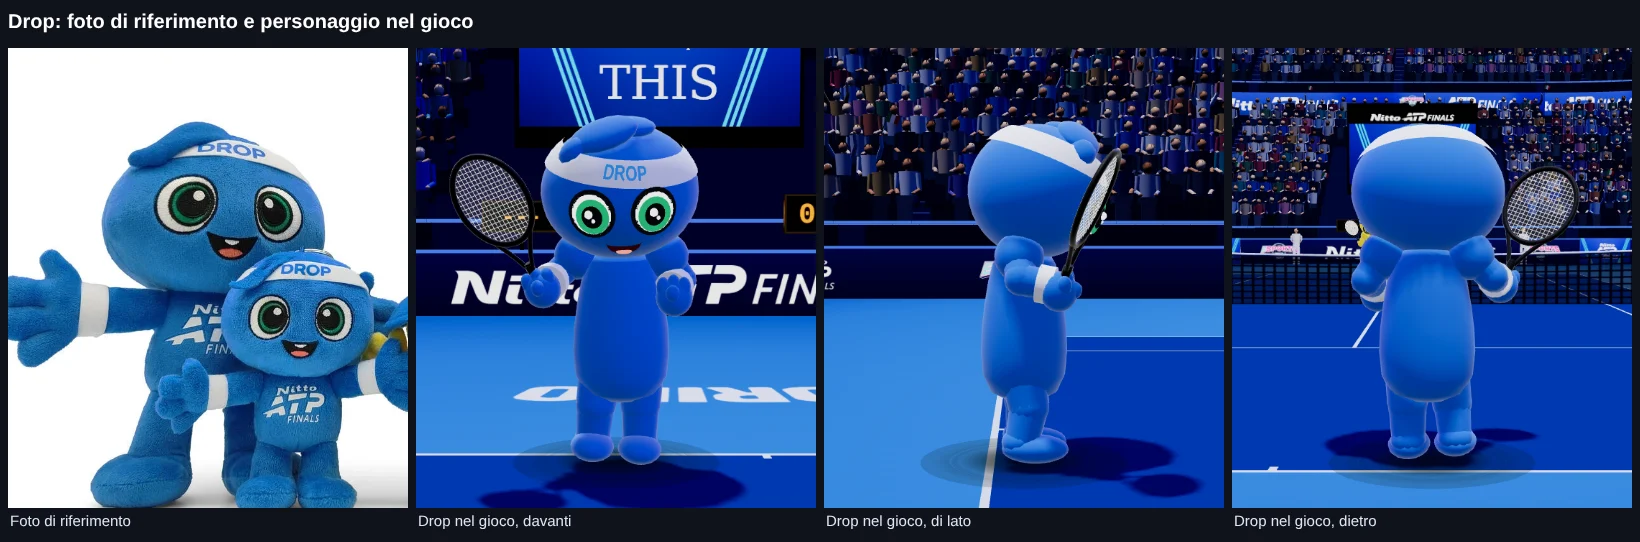
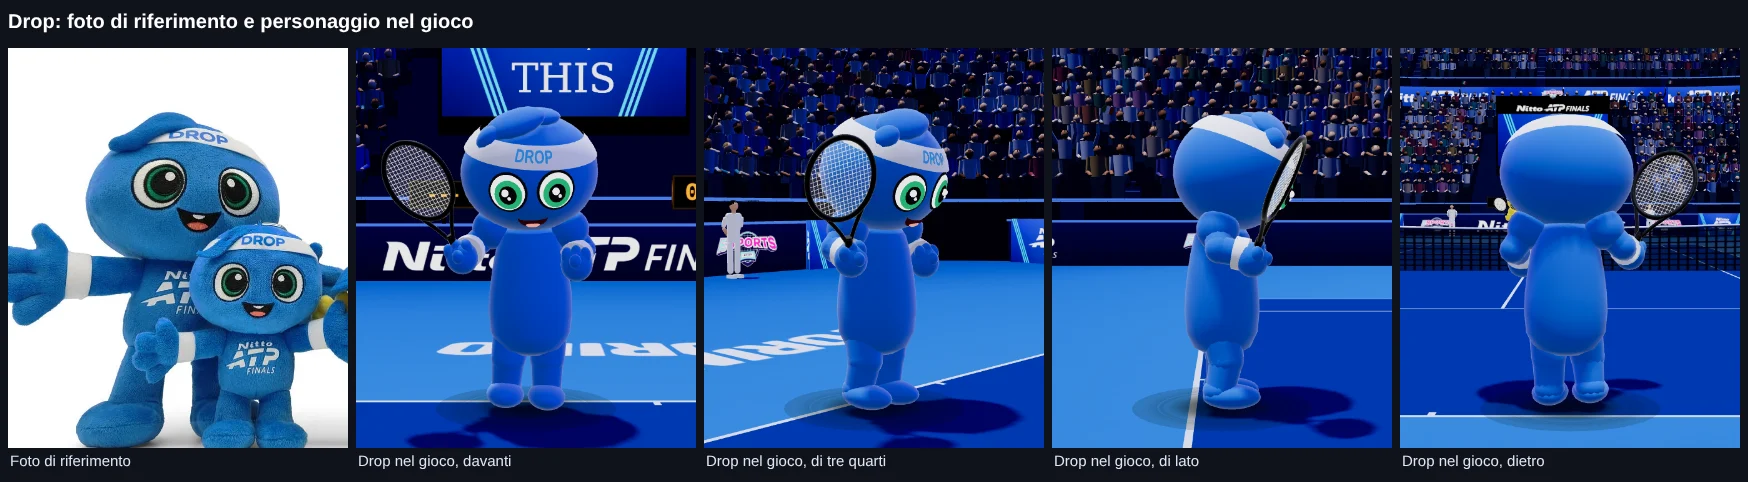
B24 revisione: documento (sezione «Revisione», racchetta e testa grande, funzione da riusare), fogli rifatti, la prova nel browser esce da sola
- docs/b24/lob-e-drop.md: cosa è stato corretto e cosa no e perché, misure prima e dopo con il metodo della
  revisione, limite che resta, come riusare keepRacketClear per i modelli 3D, frase sui ritratti corretta, nota
  sui numeri casuali nelle prove a seme fisso, numeri dell'ultimo giro.
- docs/b24/img: tutti i fogli rifatti (scritte «Classici», occhi nuovi, vista di tre quarti) e foglio nuovo
  racchetta-e-testa.webp con gli stessi passi prima e dopo.
- tools/e2e/natpf-lob-drop.mjs: alla fine esce (restava appesa al server del gioco).

Claude-Session: https://claude.ai/code/session_014xUKe3fJojkqNghZjqDcyr

diff --git a/docs/b24/lob-e-drop.md b/docs/b24/lob-e-drop.md
@@ -14,6 +14,8 @@ giallo, con la visiera blu e gli occhiali.
 - È **solo disegno**: il gioco, i colpi, il riconoscimento dei gesti e la rete tra due computer non cambiano.
 - Con «Classici» l'immagine è **identica** a prima, pixel per pixel (controllato su 9 scene).
 - Le mascotte sono costruite nel codice, come i personaggi classici: nessun file nuovo da scaricare.
+- Dopo la revisione del 12/11: la racchetta **non resta più dentro la testa grande** delle mascotte, gli occhi seguono
+  la curva della testa, nel tabellone la linguetta ha il colore del personaggio. Vedi «Revisione» in fondo.
 
 ## Come si attiva
 
@@ -40,7 +42,13 @@ possono essere diversi (uno con le mascotte, l'altro con i personaggi classici) 
 ogni schermo che ha «Lob & Drop» acceso, Drop è sempre il Player 1 (chi ha aperto la partita) e Lob il Player 2: chi
 entra come Player 2 vede sé stesso come Lob.
 
-Dove oggi si vede il personaggio, segue la scelta: in campo, nei ritratti del tabellone, del menu e di fine partita.
+Dove oggi si vede il personaggio, segue la scelta: **in campo** (anche dietro il menu) e nel **tabellone**, dove con
+«Lob & Drop» la linguetta colorata della riga è blu per chi è Drop e gialla per chi è Lob (con «Classici» resta gialla
+per chi guarda e rosa per l'altro, come prima).
+I **ritratti** (i disegni piccoli del viso) seguono la scelta nel codice, ma **oggi nessuna schermata li mostra**: a
+1280 × 720 sono nascosti nel menu, nei passi della lobby, in partita e a fine partita, e a schermo si leggono solo i
+nomi. Era così anche prima di questo lavoro (lo stile della pagina non è stato toccato): se un giorno torneranno a
+schermo, mostreranno già Drop e Lob.
 I **nomi** («Player 1», «CPU», «Player 2» o il nome scritto da chi gioca) restano quelli di prima: sono i ruoli, non i
 nomi dei personaggi. Le schede dei gesti del tutorial mostrano un disegno a parte di una persona con il telefono, non
 il personaggio in campo: non cambiano.
@@ -60,8 +68,10 @@ gli arti sono gli stessi oggetti, cambiano solo i pezzi disegnati sopra.
   occhi azzurri.
 - **Animazioni**: corsa, dritto, rovescio, servizio, esultanza e le espressioni del viso sono quelle dei personaggi di
   sempre, perché sono calcolate sulle parti e non sui pezzi disegnati.
-- **Racchetta e impatto**: la racchetta è la stessa, nella stessa mano, alla stessa distanza. L'impatto sulla palla è
-  quello di prima (il gioco non guarda il disegno).
+- **Racchetta e impatto**: la racchetta è la stessa, nella stessa mano. L'impatto sulla palla è quello di prima (il
+  gioco non guarda il disegno). Le pose della racchetta sono pensate per la testa piccola del tennista: con la testa
+  grande delle mascotte la racchetta si scosta dalla testa solo quanto serve, e la mano la segue (vedi «Racchetta e
+  testa grande»).
 - **Mancini**: come per i personaggi classici il mancino è lo specchio del destro, quindi la racchetta passa nella
   mano sinistra. La scritta sulla fascia si gira da sola per restare leggibile.
 - **Arti**: le mascotte hanno braccia e gambe, quindi non è servito togliere niente. Sono corte nella foto e più lunghe
@@ -81,14 +91,86 @@ gli arti sono gli stessi oggetti, cambiano solo i pezzi disegnati sopra.
   dell'avversario, da vicino i due personaggi, stesso schermo, due persone): stessa impronta dei pixel. È identico
   anche dopo essere passati da «Lob & Drop» e tornati indietro.
 
+- Dopo la revisione, altre due partite a sorteggi fissi, giocate dai robot con il lavoro di prima del disegno fatto
+  a ogni passo (quindi anche lo scostamento della racchetta): contro la CPU (seme 31337, 2600 passi, 36 colpi)
+  `714cce1b` e nello stesso schermo (seme 555, 2600 passi, 34 colpi) `c41965d4`, uguali con «Classici», con
+  «Lob & Drop» e su `9b8f9cb`.
+- Una cosa da sapere per chi fa prove a seme fisso: è solo disegno, ma **la creazione dei pezzi consuma numeri
+  casuali** (la libreria grafica sorteggia un nome per ogni materiale nuovo). Succede al primo disegno con un aspetto
+  nuovo (il Player 2 rosa, oppure il primo passaggio a «Lob & Drop»). Nel gioco non conta; in una prova a seme fisso
+  sposta la sequenza dei sorteggi. Per questo la prova nello stesso schermo fa un disegno «a vuoto» prima del seme.
+
+## Racchetta e testa grande
+
+Le pose della racchetta (attesa, colpi, servizio) sono nate per la testa del tennista. La testa di Lob e di Drop è
+molto più larga e profonda: nella posa d'attesa dello scambio il telaio finiva dentro il viso e ci restava.
+
+**Come è corretto.** In un punto solo, `natpf-tennis/src/natpf/natpf_racket_clear.js`, chiamato a ogni fotogramma
+prima del disegno (`updateNatpfCharacters` in `natpf_character.js`):
+
+- la racchetta si scosta dalla testa **solo quanto serve** e solo quando la attraversa; la mano resta sul manico e il
+  braccio la segue;
+- lo scostamento è **morbido**: cresce al più di 7,7 cm per fotogramma e rientra al più di 15,5 cm per fotogramma,
+  senza scatti; non supera 1,3 volte il raggio della testa (53 cm per Drop);
+- con la **palla in arrivo** vicino alle corde lo scostamento si spegne: al colpo la racchetta è dove la mette il
+  motore. Nelle due partite di prova, su 36 e 34 colpi, la distanza tra corde e palla al colpo è la stessa di prima
+  in tutti i colpi;
+- è **solo disegno**: si sposta il disegno della racchetta dentro il suo perno, che il motore riscrive a ogni passo.
+  Il gioco non legge la posizione della racchetta per decidere un colpo. Con «Classici» e in prima persona (testa
+  nascosta) non fa niente.
+
+**Misura, con il metodo della revisione** (24 punti del telaio contro l'ellissoide della testa, a ogni passo di una
+partita vera a passi fissi). «Dentro» = almeno un punto del telaio dentro la testa.
+
+| partita (2600 passi) | Drop prima | Drop dopo | Lob prima | Lob dopo | tennista di sempre, stessi passi |
+|---|---|---|---|---|---|
+| contro la CPU, seme 31337 | 292 (11,2%) | **126 (4,8%)** | 293 (11,3%) | **26 (1,0%)** | 150 (5,8%) e 61 (2,3%) |
+| stesso schermo, seme 555 | 512 (19,7%) | **99 (3,8%)** | 264 (10,2%) | **82 (3,2%)** | 268 (10,3%) e 174 (6,7%) |
+
+L'ultima colonna dice quante volte, sugli stessi passi, il telaio entra nella testa piccola del tennista: ora alle
+mascotte capita **meno spesso** che ai personaggi classici.
+Nell'**attesa dello scambio** (la posa tenuta, quella che si vedeva): contro la CPU da 343 passi a 29, nello stesso
+schermo da 440 a 35. La revisione aveva contato, con un altro orologio di prova, 476 e 287 passi su 2600.
+
+**Il limite che resta.**
+
+- Nei **passaggi veloci** (durante il colpo e nel ritorno dopo il colpo, pochi fotogrammi) la racchetta attraversa
+  ancora la testa: lì lo scostamento è volutamente parziale, perché portarla fuori del tutto la farebbe saltare di
+  40-60 cm da un fotogramma all'altro. Sono i passi «dopo» della tabella.
+- Nei passi dell'attesa che restano, la racchetta sta entrando nella posa oppure la palla è in arrivo (lo scostamento
+  si spegne per non spostare il colpo).
+- La forma tenuta libera è l'**ellissoide della testa**: la tesa della visiera e la punta di Lob e il ciuffo di Drop
+  non sono compresi, e la racchetta può sfiorarli. La tesa non è stata accorciata (è il segno che fa riconoscere Lob).
+- Nell'attesa la racchetta ora sta **davanti al viso** e ne copre una parte, come per chiunque tenga la racchetta
+  davanti a sé.
+
+**Per i modelli 3D che verranno** (GLB con lo scheletro, testa ancora più grande): la funzione da riusare è
+
+```js
+import { keepRacketClear } from './natpf_racket_clear.js';
+keepRacketClear(actor, forma, dt, palla, nodoTesta, nodoMano);
+```
+
+- `forma`: un ellissoide `{ rx, ry, rz, cx, cy, cz }` nel sistema del nodo della testa (semiassi = metà di larghezza,
+  altezza e profondità del riquadro della testa), oppure una lista di ellissoidi (testa più cappello, orecchie…).
+  Oggi la dichiara `mascotHeadShape()` in `natpf_lob_drop.js` e finisce in `actor.natpfHeadShape`: per un modello
+  nuovo basta scrivere lì la sua forma.
+- `nodoTesta` e `nodoMano`: per un modello con lo scheletro, l'osso della testa e quello della mano che tiene la
+  racchetta (se mancano valgono le parti del tennista).
+- Il tetto dello scostamento è in proporzione alla testa, quindi vale anche per teste più grandi. Il test di unità lo
+  prova con una testa di semiassi 0,52 / 0,46 / 0,50, con una testa spostata e con una testa più un accessorio.
+- La misura da rifare è `racketInHead(actor, forma)` (stesso file) o la parte 1b della prova nel browser.
+
 ## Fogli di immagini
 
-In `docs/b24/img/` (webp, tutti sotto i 300 kB). Li rifà `FOGLI=cartella node tools/e2e/natpf-lob-drop.mjs`.
+In `docs/b24/img/` (webp, tutti sotto i 300 kB). Li rifà `FOGLI=cartella node tools/e2e/natpf-lob-drop.mjs`
+(`FOGLIO=racchetta|vicino|mancini|campo` ne rifà un gruppo solo). Sono stati rifatti tutti dopo la revisione.
 
 | foglio | cosa mostra |
 |---|---|
-| `drop-da-vicino.webp` | la foto e Drop nel gioco: davanti, di lato, dietro |
-| `lob-da-vicino.webp` | la foto e Lob nel gioco: davanti, di lato, dietro |
+| `racchetta-e-testa.webp` | gli stessi passi della stessa partita prima e dopo la correzione: attesa di Drop e di Lob, ritorno dopo il colpo, rovescio |
+| `drop-da-vicino.webp` | la foto e Drop nel gioco: davanti, di tre quarti, di lato, dietro |
+| `lob-da-vicino.webp` | la foto e Lob nel gioco: davanti, di tre quarti, di lato, dietro |
 | `gesti-da-vicino.webp` | Drop e Lob durante dritto, servizio, esultanza e rovescio |
 | `mancini.webp` | Drop e Lob mancini: specchiati, racchetta nella sinistra, scritta leggibile |
 | `in-campo.webp` | dalla camera di gioco: fermo, dritto, servizio ed esultanza di Drop, dritto di Lob (anche ingranditi 3 volte), stesso schermo |
@@ -128,6 +210,10 @@ tempi sono lunghi e servono solo per il confronto tra le due scelte.
 | fotogrammi al secondo con il gioco che gira, giro A (il migliore di 2) | 0,79 | 0,90 |
 | fotogrammi al secondo con il gioco che gira, giro B | 0,80 | 0,77 |
 
+Dopo la revisione (12/11, macchina meno carica): chiamate 248 → **219**, triangoli 1.454.220 → **1.443.092**, tempo
+del disegno 890,9 → 884,1 ms, fotogrammi al secondo 0,99 e 1,03 contro 1,00 e 1,01. Lo scostamento della racchetta
+costa una trentina di punti e due matrici per personaggio a fotogramma: non si vede nella misura.
+
 Le mascotte hanno **meno** pezzi e meno triangoli dei personaggi classici. Sul tempo le due scelte sono pari entro
 l'errore della misura: con le mascotte il tempo del disegno è +0,2% e +4,6% nei due giri, i fotogrammi al secondo +14%
 e −4% (il segno cambia da un giro all'altro). Quasi tutti i triangoli sono dell'arena e del pubblico, non dei personaggi. La prova accetta fino al 12% sul
@@ -140,21 +226,21 @@ e i fotogrammi al secondo erano 0,7 e 0,6 contati su quattro fotogrammi: quella 
 questo. Ora la prova prende il disegno più breve a giri alternati e misura i fotogrammi al secondo tra il primo e
 l'ultimo fotogramma. I conti di chiamate e triangoli non dipendono dal carico e sono sempre stati uguali.
 
-**Peso del pacchetto**: il programma del gioco cresce di 15,3 kB (5,2 kB compresso), da 1.720.572 a 1.735.885 byte.
-Nessun altro file.
+**Peso del pacchetto**: il programma del gioco cresce di 18,6 kB (6,6 kB compresso), da 1.720.572 a 1.739.196 byte
+(prima della revisione 1.735.885: la correzione della racchetta e il resto pesano 3,3 kB). Nessun altro file.
 
 ## Prove
 
-Ultimo giro, il 12/11/2026: gioco 1196 test (1195 passati, 1 saltato come prima: vuole `npm ci` in `tools/lan`),
-sito 205 su 205, `npm run build` riuscito, `npm run audit:legend` «Tutti i criteri rispettati», prova nel browser
-72 verifiche su 72 con il confronto con `9b8f9cb`.
+Ultimo giro, dopo la revisione del 12/11/2026: vedi i numeri in «Revisione» qui sotto.
 
-- **Test di unità** (11, in `natpf-tennis/test/natpf-lob-drop.test.mjs` e `natpf-personaggi-opzione.test.mjs`):
+- **Test di unità** (15, in `natpf-tennis/test/natpf-lob-drop.test.mjs` e `natpf-personaggi-opzione.test.mjs`):
   opzione e chiave salvata, parametro dell'indirizzo, chi è chi contro la CPU e tra due persone, pezzi e colori delle
   due mascotte, stesso scheletro e stesse animazioni (parti, racchetta e mano identiche al tennista in corsa, colpi,
-  servizio, esultanza), mancini, viso, prima persona, ritratti, riga nelle Opzioni, nessun file nuovo nel pacchetto.
+  servizio, esultanza), racchetta fuori dalla testa grande (tre test), mancini, viso e contorno degli occhi, prima
+  persona, ritratti, linguette del tabellone, riga nelle Opzioni, nessun file nuovo nel pacchetto.
 - **Prova nel browser** `tools/e2e/natpf-lob-drop.mjs`: scene ferme e ripetibili, confronto con il commit di prima,
-  opzione e parametro, ritratti, mancini, partita a sorteggi fissi, costo del disegno e fotogrammi al secondo.
+  partite a sorteggi fissi (senza persone, contro la CPU, nello stesso schermo), racchetta e testa grande, opzione e
+  parametro, ritratti, mancini, costo del disegno e fotogrammi al secondo.
 
 ```sh
 cd tools/e2e
@@ -163,6 +249,7 @@ CHROMIUM_PATH=/opt/pw-browsers/chromium node natpf-lob-drop.mjs            # tut
 GAME=/percorso/del/gioco/a/9b8f9cb/natpf-tennis BASELINE=/tmp/prima.json CHROMIUM_PATH=… node natpf-lob-drop.mjs
 CONFRONTA=/tmp/prima.json CHROMIUM_PATH=… node natpf-lob-drop.mjs
 SOLO=1 …     # solo le scene ferme e la partita      COSTO=1 …   # solo costo e fotogrammi al secondo
+TESTA=1 …    # solo la parte 1b: racchetta e testa grande (TESTA=cpu oppure TESTA=schermo: una partita sola)
 FOGLI=../../docs/b24/img …                           # rifà i fogli di immagini
 ```
 
@@ -179,3 +266,51 @@ FOGLI=../../docs/b24/img …                           # rifà i fogli di immagi
 - **Doppio**: i compagni seguono la stessa regola (dalla parte del Player 1 Drop, dall'altra Lob), ma con le mascotte
   non è stato guardato.
 - **Il giudizio «si riconoscono»** è dell'agente sulla foto: l'ultima parola è dell'utente.
+
+## Revisione (12/11/2026)
+
+Una revisione indipendente ha rifatto le prove e ha trovato un punto bloccante e sei minori. L'utente ha chiesto in
+più di chiamare l'opzione «Classici».
+
+### Corretto
+
+| punto | cosa è stato fatto |
+|---|---|
+| **Bloccante: la racchetta entrava nella testa delle mascotte** | Modulo nuovo `natpf_racket_clear.js`, un punto solo e riusabile per qualunque testa grande: vedi «Racchetta e testa grande». Telaio dentro la testa: Drop da 292 a 126 passi su 2600 e Lob da 293 a 26 contro la CPU; Drop da 512 a 99 e Lob da 264 a 82 nello stesso schermo. Nell'attesa dello scambio da 343 a 29 e da 440 a 35. Al colpo le corde sono dove erano (36 e 34 colpi su 36 e 34). Tre test di unità e la parte 1b della prova nel browser. |
+| Nome dell'opzione | «Classici» al posto di «Di sempre» in tutti i testi, nei test, nella prova e in questo documento. La chiave salvata e il parametro restano `sempre`. L'avviso dice «In campo: i personaggi classici». |
+| Occhi che uscivano dal profilo della testa | Il contorno nero dell'occhio è ora una calotta curva come la testa (prima un disco piatto, che ai bordi sporgeva di 8 mm e più) e gli occhi sono un poco più vicini e più piccoli (Drop 0,128 / 0,095, Lob 0,12 / 0,086). Test sul bordo del contorno. |
+| Linguetta del tabellone | Con «Lob & Drop» è del colore del personaggio della riga: blu per Drop, gialla per Lob (anche nello stesso schermo e per chi è entrato come Player 2). Con «Classici» resta com'era. Cambia subito quando si cambia l'opzione. |
+| Prova a sorteggi fissi anche nello stesso schermo | Aggiunte alla prova due partite giocate dai robot, contro la CPU e nello stesso schermo, con il disegno a vuoto prima del seme. Stessa impronta con i due valori dell'opzione e su `9b8f9cb`. Scritta in «Cosa non cambia nel gioco» la nota sui numeri casuali consumati alla creazione dei pezzi. |
+| Ritratti | Corretta la frase del documento: i ritratti seguono la scelta nel codice ma oggi nessuna schermata li mostra. |
+| La prova nel browser non finiva da sola | Alla fine ora esce (prima restava appesa al server del gioco). |
+
+### Non corretto, e perché
+
+| punto | perché |
+|---|---|
+| La racchetta attraversa ancora la testa nei passaggi veloci dei colpi | Scelta voluta: lì lo scostamento è parziale e morbido. Portarla fuori del tutto voleva dire salti di 40-60 cm tra due fotogrammi (provato: 77 cm al massimo). Ora capita meno spesso che al tennista di sempre con la sua testa. |
+| Ridurre la testa (rz più piccolo, centro arretrato), come proponeva la revisione | Non fatto: i modelli 3D che arriveranno hanno la testa ancora più grande, quindi serviva una correzione che non dipendesse dalla misura della testa. La somiglianza con la foto resta quella di prima. |
+| Tesa della visiera di Lob più corta | Non fatto: è il segno che fa riconoscere Lob. La racchetta può sfiorare la tesa, la punta e il ciuffo (non sono nella forma tenuta libera). |
+| Ritratti a schermo | Non fatto: oggi sono nascosti dallo stile della pagina in tutte le schermate, anche con «Classici». Rimetterli a schermo è una scelta di interfaccia fuori da questo lavoro. |
+| Drop blu sul campo blu | Non toccato: va visto dall'utente su uno schermo vero. Se serve si può dare più luce propria al corpo di Drop. |
+| Ciuffo e punta dal lato opposto per i mancini, bocca che di tre quarti sembra una macchia | Non fatto (facoltativo): il mancino è lo specchio del destro, come per i personaggi classici. |
+| Occhio lontano di tre quarti | Migliorato, non tolto del tutto: il bianco dell'occhio è ancora un pezzo del motore, poco bombato; oltre i 45-50 gradi circa un filo di bianco può ancora sporgere. |
+
+### Numeri dell'ultimo giro
+
+- Gioco (`npm test`): 1200 test, 1199 passati, 0 falliti, 1 saltato (vuole `npm ci` in `tools/lan`, come prima).
+- Sito (`node --test tools/test/*.test.mjs`): 205 su 205.
+- `npm run build`: riuscito. `npm run audit:legend`: «Tutti i criteri rispettati».
+- Prova nel browser `natpf-lob-drop.mjs` con il confronto con `9b8f9cb` (impronte rifatte sul commit di prima con la
+  prova aggiornata): **92 verifiche su 92**. Le 9 scene con «Classici» sono identiche a prima; le tre partite a
+  sorteggi fissi danno `105f1405`, `714cce1b` e `c41965d4` su `9b8f9cb`, con «Classici» e con «Lob & Drop».
+- Prova nel browser del tabellone (`natpf-tabellone.mjs`, toccato dalla linguetta): 42 su 42.
+- `npm ci` non rifatto: `node_modules` c'era già e `package-lock.json` non è stato toccato.
+- Nessuna misura di fotogrammi al secondo è fallita in questo giro.
+
+Non provato dopo la revisione: tutto quello che è scritto in «Cosa non è provato» qui sopra; in più le prove nel
+browser della sfida tra due computer e dello stesso schermo B25 (`natpf-1v1-p2p`, `natpf-split-ready`,
+`natpf-stesso-schermo-b25`) non sono state rifatte dopo la correzione (la revisione le aveva trovate verdi prima; la
+rete non è stata toccata), e la racchetta scostata non è stata guardata nel doppio né in prima persona su uno schermo
+(in prima persona il test di unità dice che non fa niente).
+
